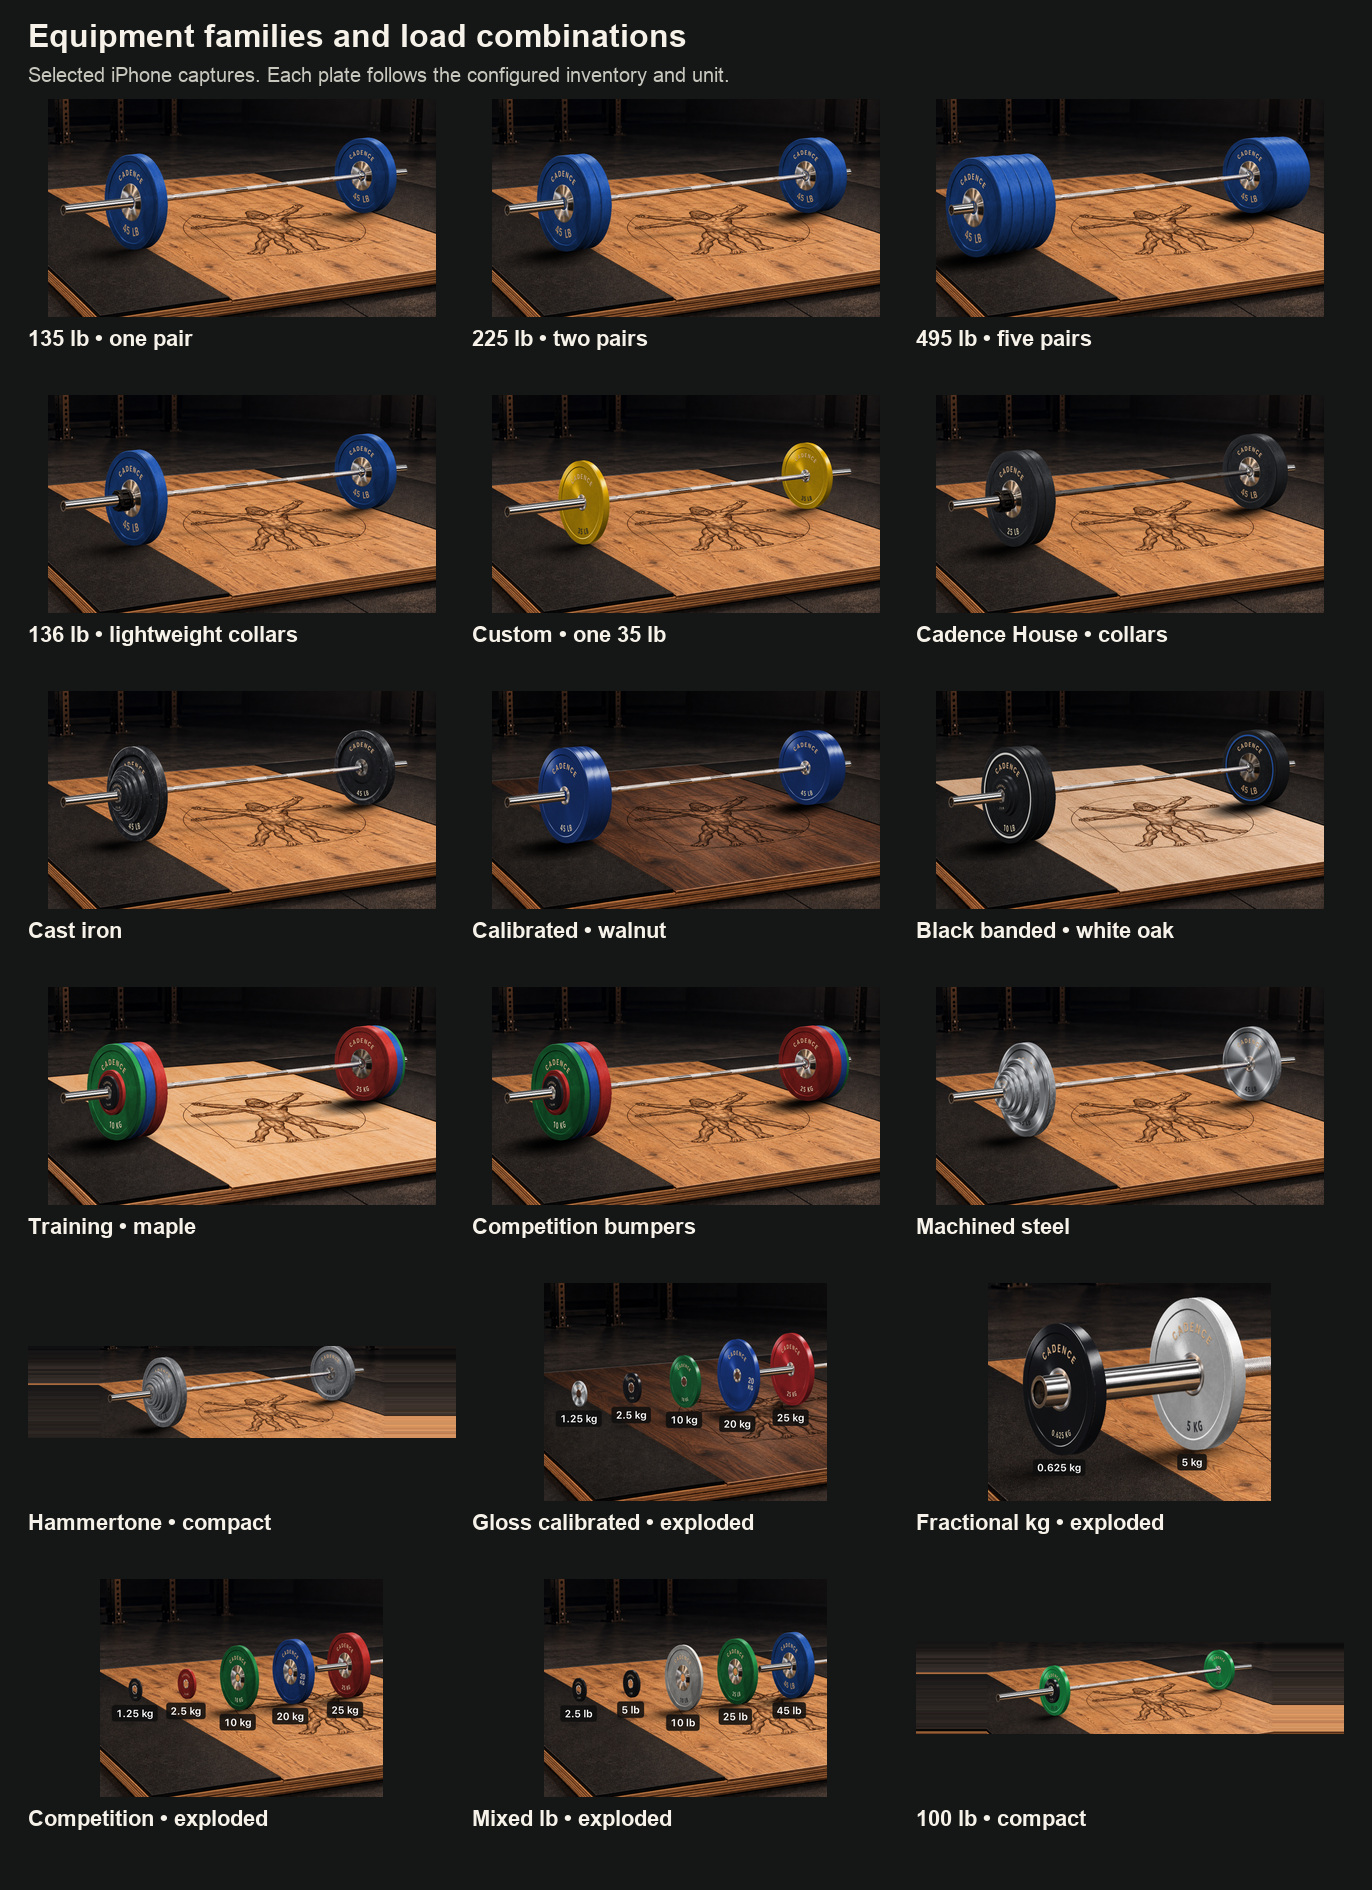
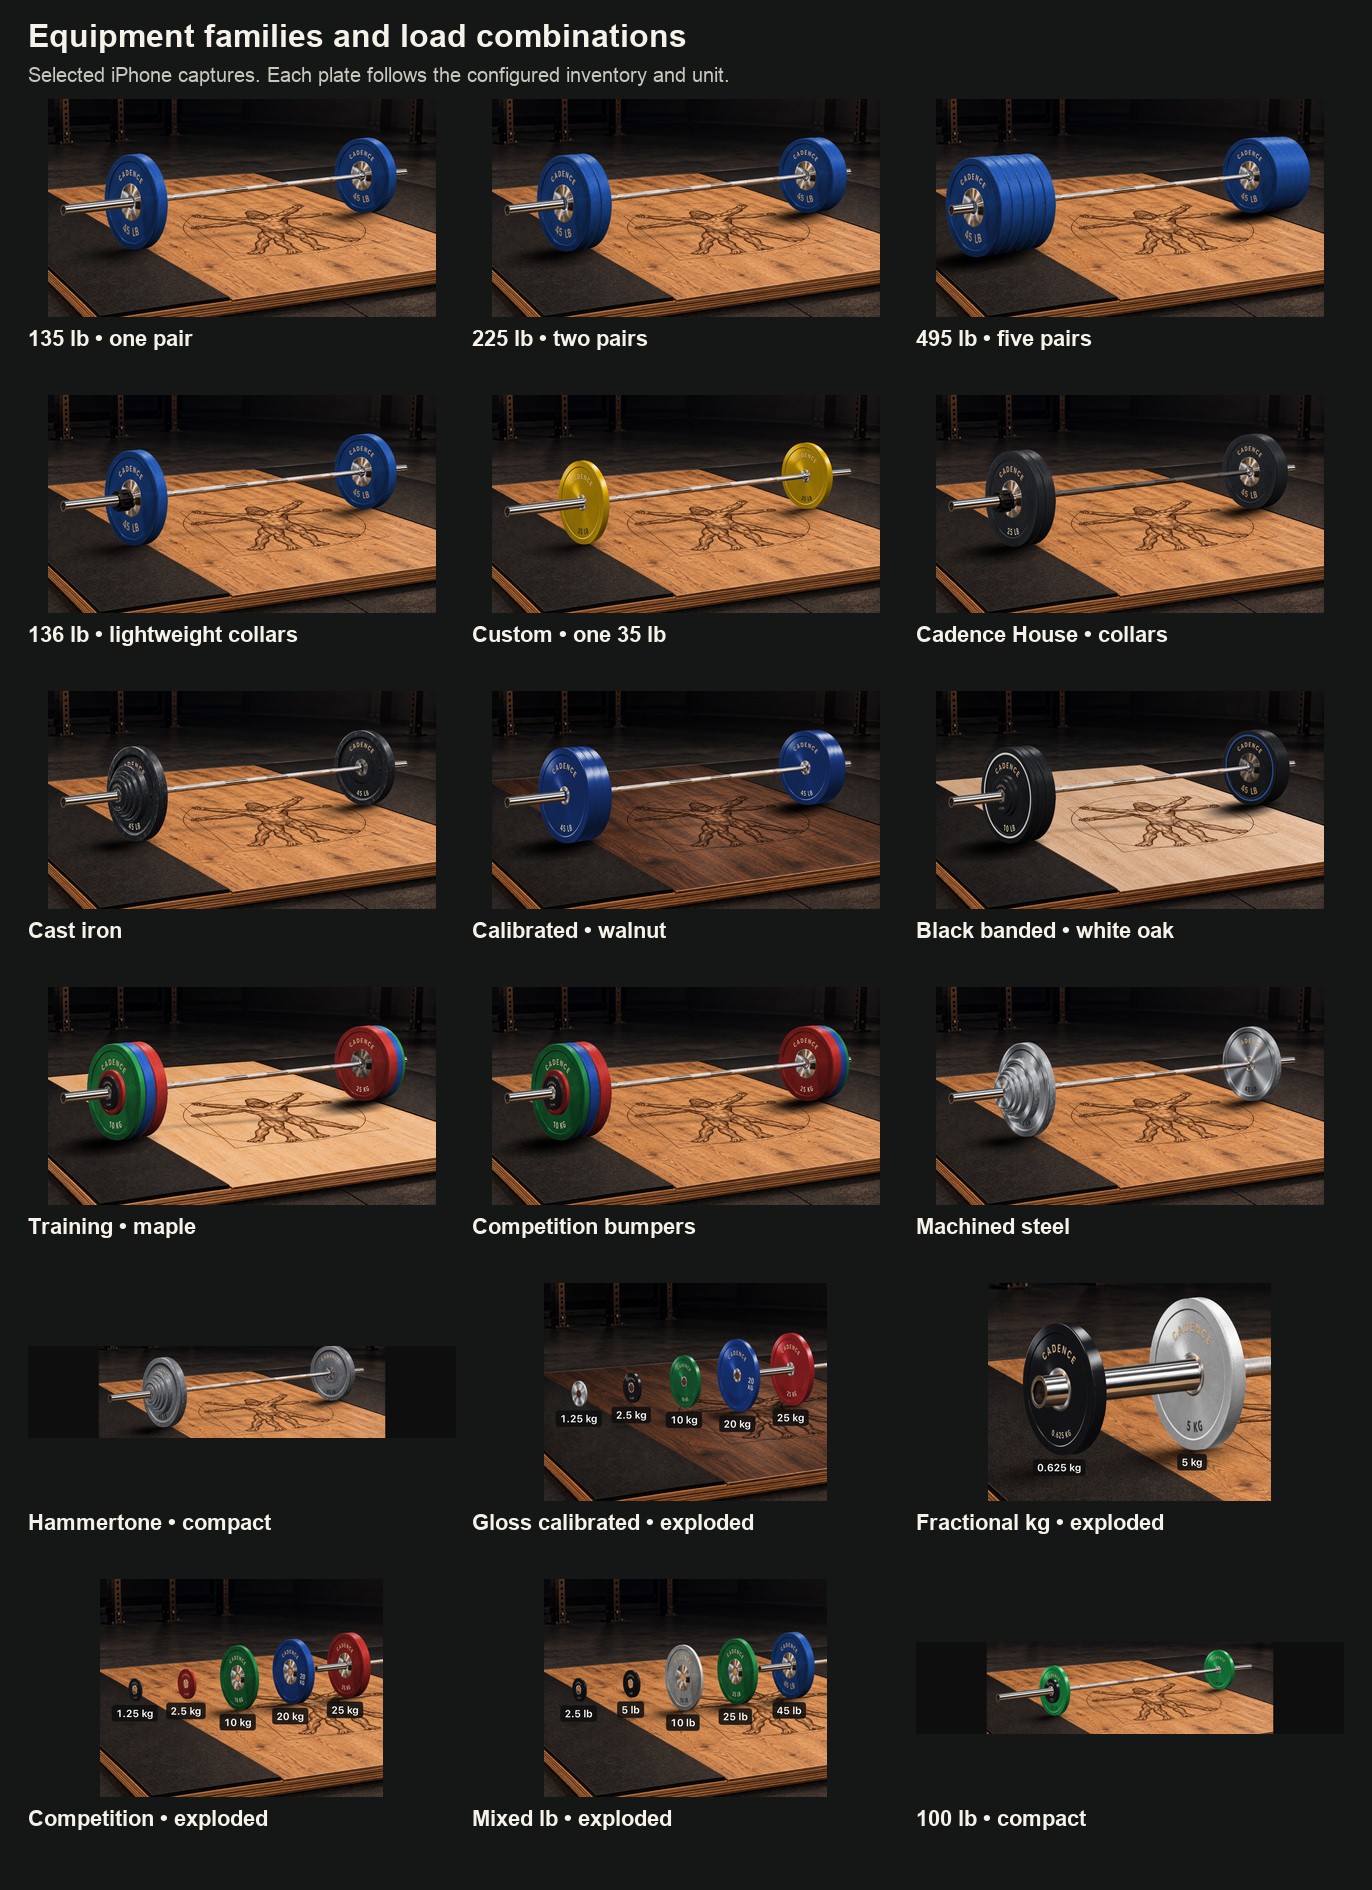
test(design): show the photographic equipment through the iPhone workout flow

diff --git a/docs/design-pass/photographic-equipment/README.md b/docs/design-pass/photographic-equipment/README.md
@@ -18,6 +18,8 @@ The [dynamic load comparison](proof/dynamic-loads.jpg) shows an empty bar, a 225
 
 The PWA uses the same photographs in the actual [plate calculator](proof/web-calculator.png) and [exploded mixed-unit inspector](proof/web-mixed-exploded.png), including after an offline reload.
 
+The [six iPhone screens](proof/iphone-workout-flow.jpg) show Today, the current set, calculator, assembled inspector, exploded inspector and workout preview. Seven synthetic UI tests passed. After fitting the assembled inspector to the photographic frame, the calculator and preview tests passed again, including the maximum-text five-plate inspection.
+
 ## Reproducing the artwork
 
 From the repository root with Pillow and NumPy installed, run the exporter check. Copy the native assets to the PWA after changing the art.
